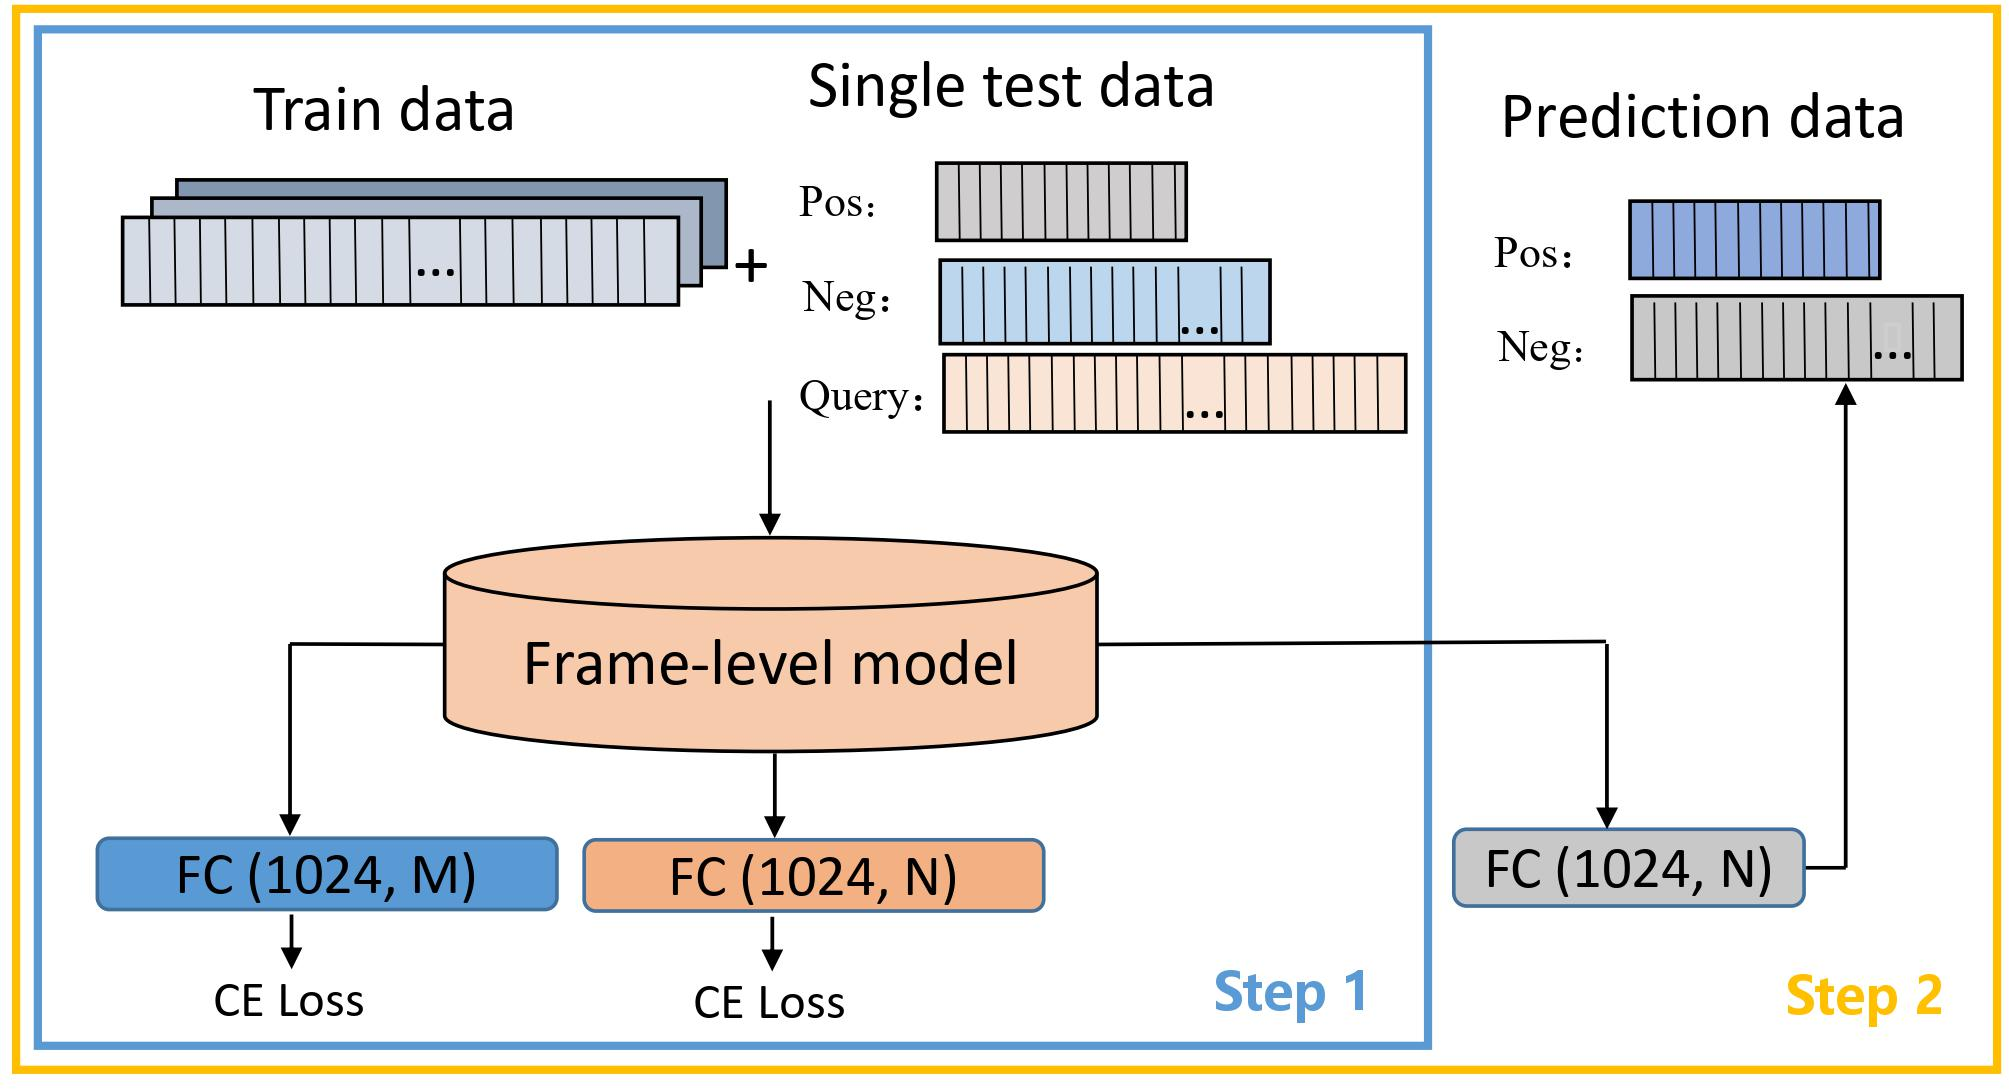
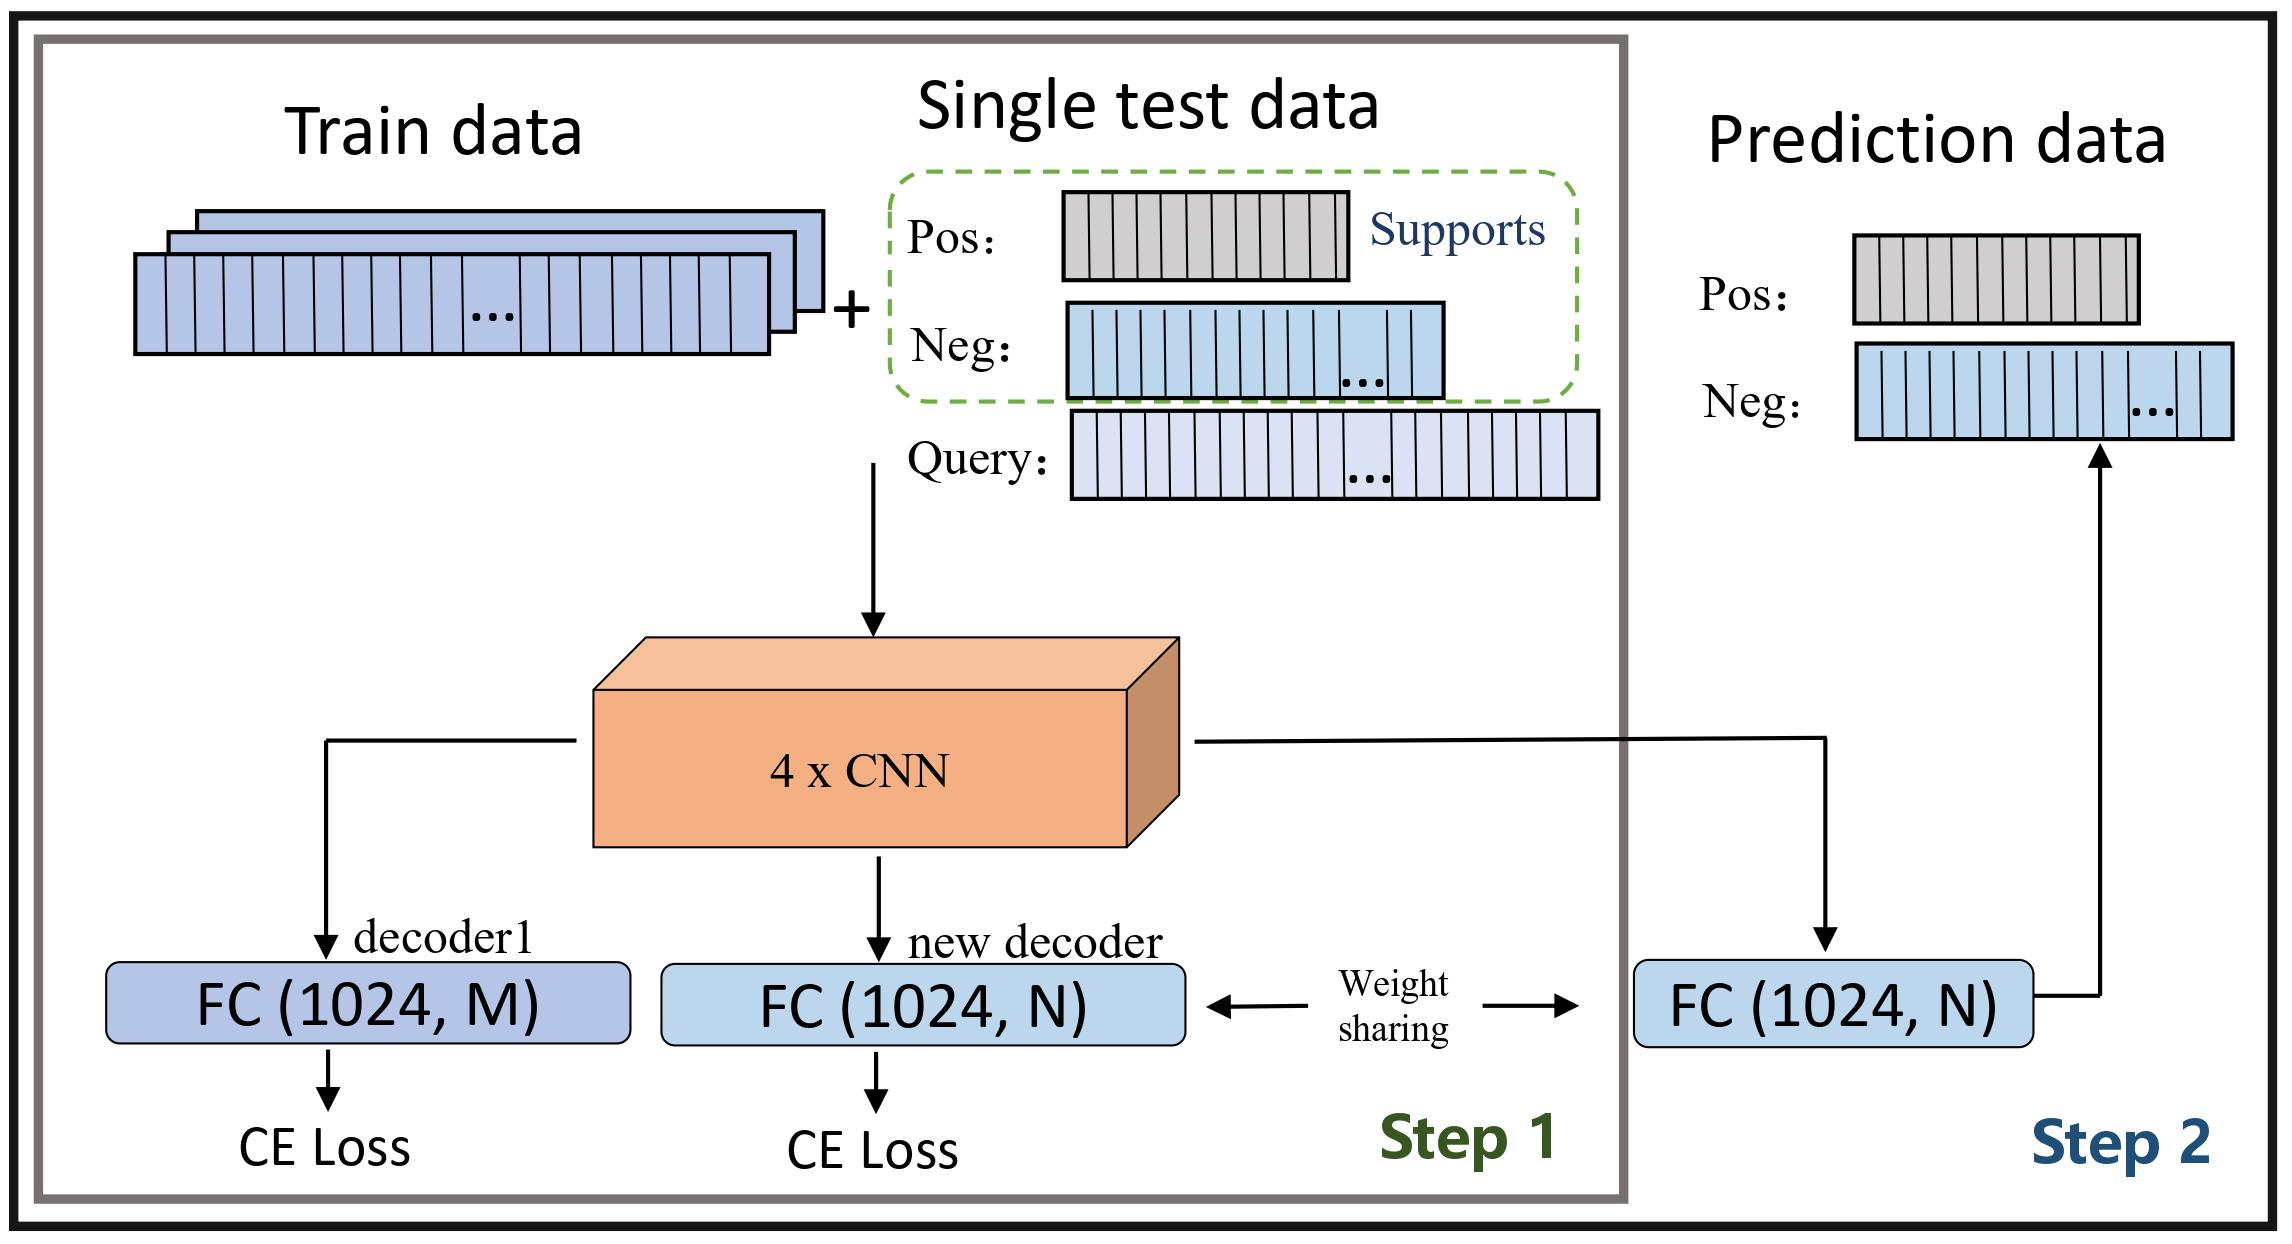
Dcase2023 Task5

diff --git a/README.md b/README.md
@@ -1,17 +1,26 @@
+<!--
+ * @Descripttion: 
+ * @version: 
+ * @Author: gwyan
+ * @Date: 2023-12-20 14:37:31
+ * @LastEditors: gwyan
+ * @LastEditTime: 2023-12-25 09:50:13
+-->
 
 ## DCASE2023 task5 code
 This is our submision code in DCASE2022-2023 task5. <br/>
 In the 2022 Task5 challenge, we propose an adaptive frame-level embedding learning learning network, which performs audio detection on each frame of the sliding window by adaptively, in conjunction with a supervision loss based on the support set. Finally we got the 1st rank in the Task5. Furthermore, in the 2023 challenge, we further propose the multitask frame-level embedding learning framework, which makes feature extractor and classifier more robust and powerful.<br/>
 
 The framework of train/finetune stage is shown as follows:
-* ### Training Framework                               
-    <img src="picture/train-stage.jpg" alt="network" title="training framework" style="width:500px;height:400px;"/>
-    <br/>
+* ### Training Framework      
+    |  training framework         |  TF-Encoder                          |
+    |-------------------------------|------------------------------|
+    | <img src="picture/train_stage.jpg" alt="network" title="training framework" style="width: 500px; height: 400px" />   | <img src="picture/TF-encoder.jpg" alt="network" title="finetune framework" style="width: 380px; height: 400px" /> |                         
 
 * ### Finetuning Framework                               
     |  SED branch          |  TE-VAD branch                           |
     |-------------------------------|------------------------------|
-    | <img src="picture/ft_classification_branch.jpg" alt="network" title="finetune framework" style="width: 560px; height: 320px" />   | <img src="picture/fine-tuning branch.jpg" alt="network" title="finetune framework" style="width: 300px; height: 320px" /> |
+    | <img src="picture/ft_classification_branch.jpg" alt="network" title="finetune framework" style="width: 680px; height: 400px" />   | <img src="picture/ft_tsvad_branch.jpg" alt="network" title="finetune framework" style="width: 300px; height: 400px" /> |
 
 
 #### How to run it?
